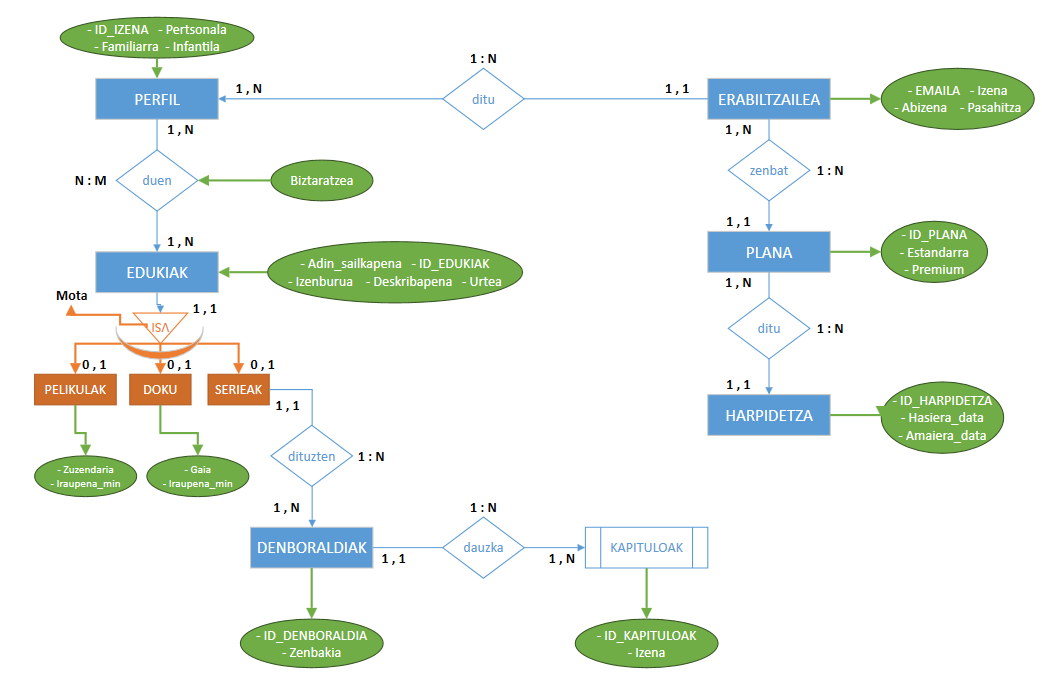
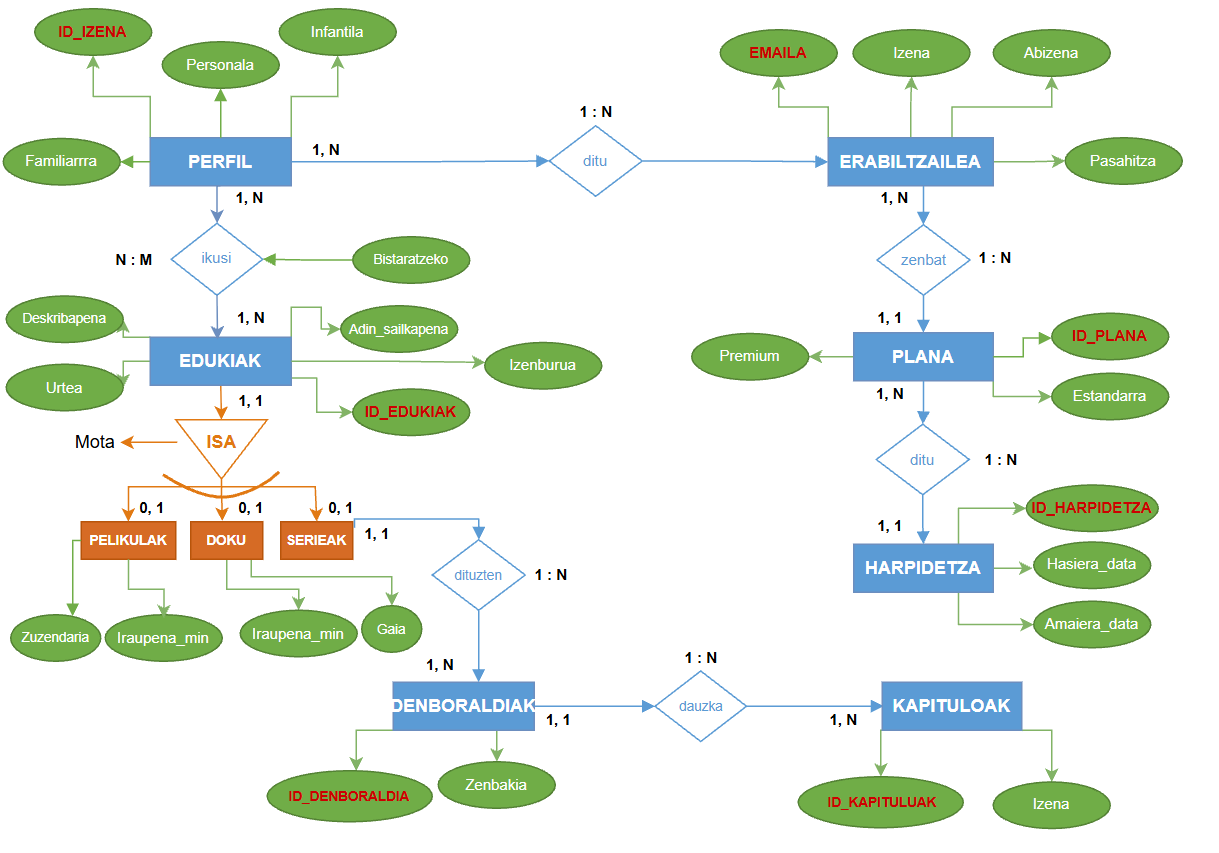
db argazkia

diff --git a/doc/datu_baseak.md b/doc/datu_baseak.md
@@ -16,7 +16,7 @@ Azkenik, entitateen arteko erlazioak eta kardinalitateak zehaztu ditugu, sistema
 
 Ondorioz, ER diagramaren helburua streaming-plataforma baten informazioa modu eraginkorrean antolatzea da, datuak behar bezala gordetzeko, erlazionatzeko eta etorkizunean kontsultatu eta kudeatu ahal izateko.
 
-![diagrama](img/db/1.png)
+  ![digrama](img/db/1.png)
 
 ### 2. Modu erlazionala egin:
 ---
